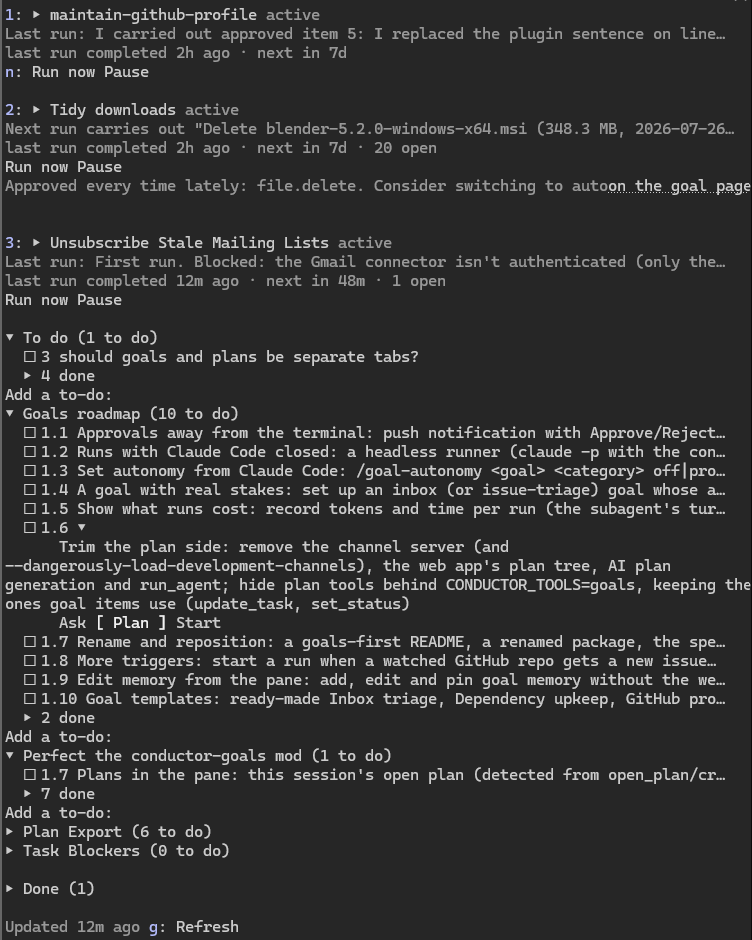
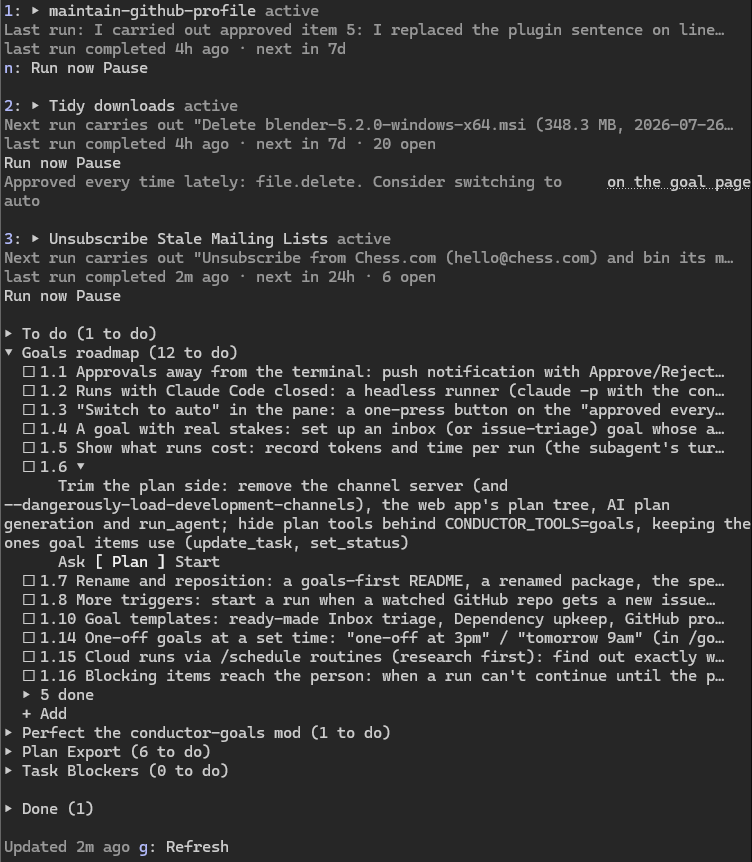
docs, fix(plugin): new Goals pane screenshot; the autonomy hint's link on its own line
- docs/goals-pane.png: a newer screenshot, with the Unsubscribe goal
  working and the to-do list's + Add and "n done".
- The "approved every time lately" hint wrapped badly beside its link
  ("auto" on the next line, the link pushed right). The link now has a
  line of its own, and the hint mentions asking Claude (update_goal).

Changed region(s): [[0.0, 0.0, 1.0, 0.9954], [0.5199, 0.0302, 0.887, 0.0603], [0.9176, 0.0302, 0.9481, 0.0603]]

diff --git a/plugins/conductor-goals/hooks/pane.tsx b/plugins/conductor-goals/hooks/pane.tsx
@@ -129,13 +129,12 @@ function goalCard($: $, e: E, view: View, g: GoalCard, index: number) {
       {controls($, e, view, g)}
       {isOpen && details($, e, view, g)}
       {g.suggestions.length > 0 && (
-        <Box>
+        // The link on a line of its own: beside long text that wraps, the row draws them apart
+        <Box flexDirection="column">
           <Text dimColor>
-            Approved every time lately: {g.suggestions.map((x) => x.category).join(', ')}. Consider switching to auto
+            Approved every time lately: {g.suggestions.map((x) => x.category).join(', ')}. Consider switching to auto: ask Claude, or
           </Text>
-          {/* A space of its own: a trailing space inside the text is trimmed when drawn */}
-          <Text> </Text>
-          <Link key={`autonomy-${g.id}`} href={`${view.base}/goals/${encodeURIComponent(g.id)}`} label="on the goal page" />
+          <Link key={`autonomy-${g.id}`} href={`${view.base}/goals/${encodeURIComponent(g.id)}`} label="open the goal page" />
         </Box>
       )}
     </Box>
